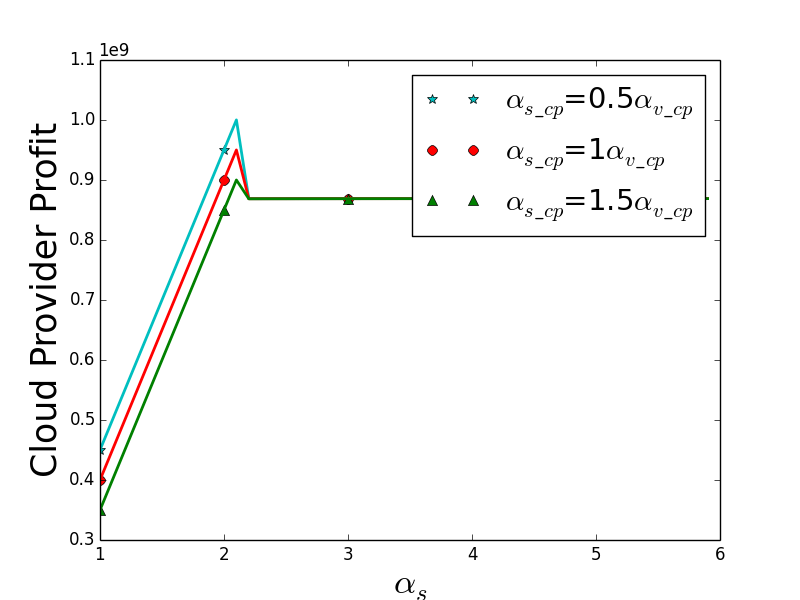
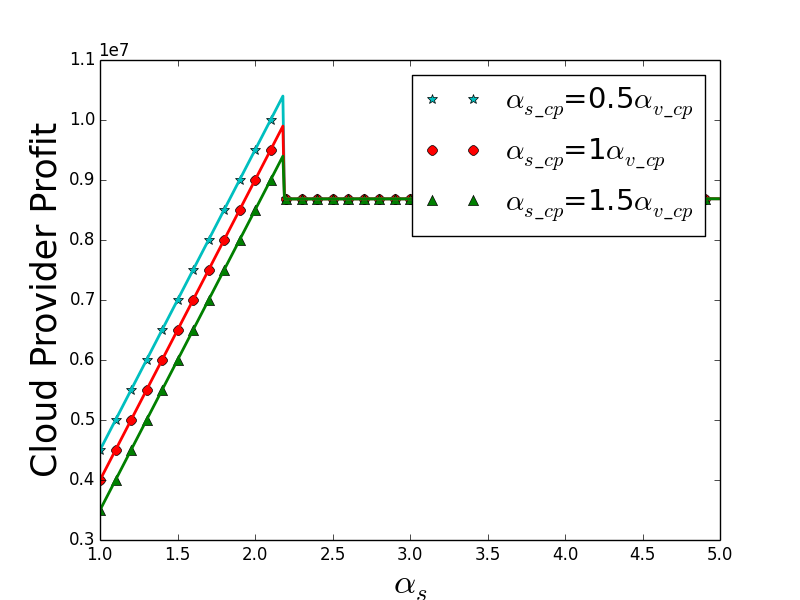
added zipf distribution code partially

diff --git a/scripts/generate_plots_mg1.py b/scripts/generate_plots_mg1.py
@@ -246,7 +246,104 @@ def getNumServers(num_vm, load_serv, mu_v, mu_s, mu_server, eff_v, eff_s):
 	return math.ceil(num_servers_for_serv_load + num_servers_for_vm_load)
 
 
+# 1: SC only, 2 : Hybrid, 3: VM only
+def plotSingleUserEfficiencyVaryMu():
+	alpha_v = 1.0
+	price_ratios = [0.01*x for x in range(100,1000)]
+	mu_server = 30.0
+	mu_v = 5.0
+	mu_s_ratios = [0.01*x for x in range(100,300)]
+	# mu_s = 10.0
+	eff_s = 5.0
+	eff_v = 10.0
+	cp_alpha_v = 0.2
+	cp_alpha_s = 0.3
+	# cp_cost_ratios = [0.5, 1, 1.5, 2.1]
+	beta = 0.9
+	gamma = 1
+	total_num_vm = 0
+	total_num_serv = 0
+	results = []
+	configs = []
+	lambdas = [4, 20, 55]
+	num_servers = []
+	# lambdas = [20, 60, 100]
+	# lambdas = [100]
 
+	for val_lambda in lambdas:
+		results_config = []
+		results_total_servers = []
+		results_cost = []
+		results_opt_alpha_s = []
+		for mu_s_ratio in mu_s_ratios:
+			mu_s = mu_s_ratio * mu_v
+			max_profit = -10000000000000000
+			optimal_alpha_s = -1
+			config = 0
+			for ratio in price_ratios:
+				alpha_s = alpha_v * ratio
+				num_vm, load_serv, revenue = 0,0,0
+				num_vm, load_serv, revenue = get_config(beta, mu_s, mu_v, alpha_v, alpha_s, gamma, val_lambda)
+				cp_cost = getCPCost(num_vm, load_serv, cp_alpha_v, cp_alpha_s, mu_s, mu_v, val_lambda, beta)		
+				if revenue - cp_cost > max_profit:
+					max_profit = revenue - cp_cost
+					optimal_alpha_s = ratio
+					if num_vm == 0:
+						config = 1
+					elif load_serv > 0:
+						config = 2
+					else:
+						config = 3
+			results_cost.append(max_profit)
+			results_config.append(config)
+			results_opt_alpha_s.append(optimal_alpha_s)
+				# results_total_servers.append(getNumServers(num_vm, load_serv, mu_v, mu_s, mu_server, eff_v, eff_s))
+				# print num_vm, load_serv
+				# results_cost.append(cp_cost)
+		results.append(results_opt_alpha_s)
+		configs.append(results_config)
+		# num_servers.append(results_total_servers)
+	filename = '../graphs/mg1/SingleUserEfficiencyVaryMu'+ '.png'
+	# filename = '../graphs/mg1/singleUserDelaysOptimalSCUser'  + '.png'
+	fig = plt.figure()
+	legends = []
+	for val_lambda in lambdas:
+		key = r'$\lambda$=' + str(val_lambda)
+		legends.append(key)
+	plt.subplot(2, 1, 1)
+	plt.plot(mu_s_ratios[::10], results[0][::10], 'c*', markersize=7)
+	plt.plot(mu_s_ratios[::10], results[1][::10], 'ro', markersize=7)
+	plt.plot(mu_s_ratios[::10], results[2][::10], 'g^', markersize=7)
+	# plt.plot(mu_s_ratio[::100], results[3][::100], 'bs', markersize=7)
+	plt.plot(mu_s_ratios, results[0], 'c', linewidth='2')
+	plt.plot(mu_s_ratios, results[1], 'r', linewidth='2')
+	plt.plot(mu_s_ratios, results[2], 'g', linewidth='2')
+	# plt.plot(mu_s_ratio, results[3], 'b', linewidth='2')
+
+	plt.legend(legends, loc='upper right', fontsize=21)
+	labelstr = 'Optimal ' + r'$\alpha_s$'
+	# plt.ylabel('Cloud Provider Profit', fontsize=25)
+	plt.ylabel(labelstr, fontsize=25)
+	# plt.ylabel('Revenue from User', fontsize=25)
+	# plt.xlabel(r'$\mu_s/\mu_v$', fontsize=25)
+
+	plt.subplot(2, 1, 2)
+	plt.plot(mu_s_ratios[::10], configs[0][::10], 'c*', markersize=7)
+	plt.plot(mu_s_ratios[::10], configs[1][::10], 'ro', markersize=7)
+	plt.plot(mu_s_ratios[::10], configs[2][::10], 'g^', markersize=7)
+	# plt.plot(lambdas[::200], results[3][::200], 'bs', markersize=7)
+	plt.plot(mu_s_ratios, configs[0], 'c', linewidth='2')
+	plt.plot(mu_s_ratios, configs[1], 'r', linewidth='2')
+	plt.plot(mu_s_ratios, configs[2], 'g', linewidth='2')
+	# plt.plot(lambdas, results[3], 'b', linewidth='2')
+
+	# plt.legend(legends, loc='upper right', fontsize=21)
+	plt.yticks([0,1,2,3,4], ('', 'SC', 'SC + VM', 'VM', ''))
+	# plt.ylabel('Configuration', fontsize=25)
+	plt.xlabel(r'$\mu_s/\mu_v$', fontsize=20)
+
+
+	plt.savefig(filename)
 
 
 def plotSingleUserEfficiency(mode):
@@ -259,7 +356,7 @@ def plotSingleUserEfficiency(mode):
 	eff_v = 10.0
 	cp_alpha_v = 0.2
 	# cp_alpha_s = 0.3
-	cp_cost_ratios = [0.5, 1, 1.5]
+	cp_cost_ratios = [0.5, 1, 1.5, 2.1]
 	beta = 0.9
 	gamma = 1
 	total_num_vm = 0
@@ -304,11 +401,11 @@ def plotSingleUserEfficiency(mode):
 	plt.plot(price_ratios[::100], results[0][::100], 'c*', markersize=7)
 	plt.plot(price_ratios[::100], results[1][::100], 'ro', markersize=7)
 	plt.plot(price_ratios[::100], results[2][::100], 'g^', markersize=7)
-	# plt.plot(lambdas[::200], results[3][::200], 'bs', markersize=7)
+	plt.plot(price_ratios[::100], results[3][::100], 'bs', markersize=7)
 	plt.plot(price_ratios, results[0], 'c', linewidth='2')
 	plt.plot(price_ratios, results[1], 'r', linewidth='2')
 	plt.plot(price_ratios, results[2], 'g', linewidth='2')
-	# plt.plot(lambdas, results[3], 'b', linewidth='2')
+	plt.plot(price_ratios, results[3], 'b', linewidth='2')
 
 	plt.legend(legends, loc='upper right', fontsize=21)
 	labelstr = 'Cloud Provider Profit for ' + r'$\lambda$' + ' = 40'
@@ -361,11 +458,11 @@ def plotSingleUserEfficiency(mode):
 
 	plt.savefig(filename)
 
-def plotSingleUserUniformDist(mode):
+def plotSingleUserDist(mode, dist):
 	max_lambda = 10000
-	lambdas = [.01*x for x in range(0,((max_lambda+1)*100))]
+	lambdas = [x for x in range(1, max_lambda)]
 	alpha_v = 1.0
-	price_ratios = [.1*x for x in range(10,60)]
+	price_ratios = [.01*x for x in range(100,500)]
 	cp_cost_ratios = [0.5, 1, 1.5]
 	mu_server = 30.0
 	mu_v = 5.0
@@ -382,6 +479,7 @@ def plotSingleUserUniformDist(mode):
 	total_profit = []
 	profits = []
 	for cp_ratio in cp_cost_ratios:
+		print cp_ratio
 		cp_alpha_s = cp_alpha_v * cp_ratio
 		total_profit = [] 
 		for ratio in price_ratios:
@@ -406,11 +504,14 @@ def plotSingleUserUniformDist(mode):
 				results_num_serv.append(total_num_serv)
 				results_total_servers.append(total_num_vm + total_num_serv)		
 				results_cost.append(revenue - cp_cost)
-				profit += revenue - cp_cost
+				if dist == 'Uniform':
+					profit += revenue - cp_cost
+				elif dist == 'Zipf':
+					profit += (1/val_lambda)*(revenue - cp_cost)
 			results.append(results_cost)
 			total_profit.append(profit)
 		profits.append(total_profit)
-	filename = '../graphs/mg1/UniformDist' + mode + '.png'
+	filename = '../graphs/mg1/' + dist + 'Dist' + mode + '.png'
 	fig = plt.figure()
 	legends = []
 	for ratio in cp_cost_ratios:
@@ -775,13 +876,13 @@ def plotmus_to_muv_ON_OFF():
 
 
 def main():
-	if len(sys.argv) >  3:
+	if len(sys.argv) >  4:
 		print "USAGE: python generate_plots_mg1.py <exp_type>"
 		print "<exp_type> : vary_num_VMs/vary_startup_delay/vary_service_rate_VM/plotVMcost/plotTotalcost"
 		print "<exp_type> : multipleVMs_vary_price_ratio/multipleVMs_vary_mu/multipleVMonoff_vary_price_ratio/multipleVMonoff_vary_mu/multipleVMonoff_vary_gamma"
 		print "<exp_type> : costserv_to_vm_ON/costserv_to_vm_ON_OFF"
 		print "<exp_type> : mus_to_muv_ON_OFF"
-		print "<exp_type> : plotMultUsers/plotSingleUser/plotSingleUserOptimalSC/plotSingleUserOptimalSCvaryDelay/plotSingleUserEfficiency/plotSingleUserUniformDist"
+		print "<exp_type> : plotMultUsers/plotSingleUser/plotSingleUserOptimalSC/plotSingleUserOptimalSCvaryDelay/plotSingleUserEfficiency/plotSingleUserDist/plotSingleUserEfficiencyVaryMu"
 		return
 	exp_type = sys.argv[1]
 	if exp_type == 'vary_startup_delay':
@@ -816,8 +917,10 @@ def main():
 		plotMultUsers()
 	elif exp_type == 'plotSingleUser':
 		plotSingleUser()
-	elif exp_type == 'plotSingleUserUniformDist':
-		plotSingleUserUniformDist(sys.argv[2])
+	elif exp_type == 'plotSingleUserEfficiencyVaryMu':
+		plotSingleUserEfficiencyVaryMu()
+	elif exp_type == 'plotSingleUserDist':
+		plotSingleUserDist(sys.argv[2], sys.argv[3])
 	elif exp_type == 'plotSingleUserEfficiency':
 		plotSingleUserEfficiency(sys.argv[2])
 	elif exp_type == 'plotSingleUserOptimalSC':
@@ -832,7 +935,7 @@ def main():
 		print "<exp_type> : multipleVMs_vary_price_ratio/multipleVMs_vary_mu/multipleVMonoff_vary_price_ratio/multipleVMonoff_vary_mu/multipleVMonoff_vary_gamma"
 		print "<exp_type> : costserv_to_vm_ON/costserv_to_vm_ON_OFF"
 		print "<exp_type> : mus_to_muv_ON_OFF"
-		print "<exp_type> : plotMultUsers/plotSingleUser/plotSingleUserOptimalSC/plotSingleUserOptimalSCvaryDelay/plotSingleUserEfficiency/plotSingleUserUniformDist"
+		print "<exp_type> : plotMultUsers/plotSingleUser/plotSingleUserOptimalSC/plotSingleUserOptimalSCvaryDelay/plotSingleUserEfficiency/plotSingleUserDist/plotSingleUserEfficiencyVaryMu"
 
 if __name__ == '__main__':
 	main()
